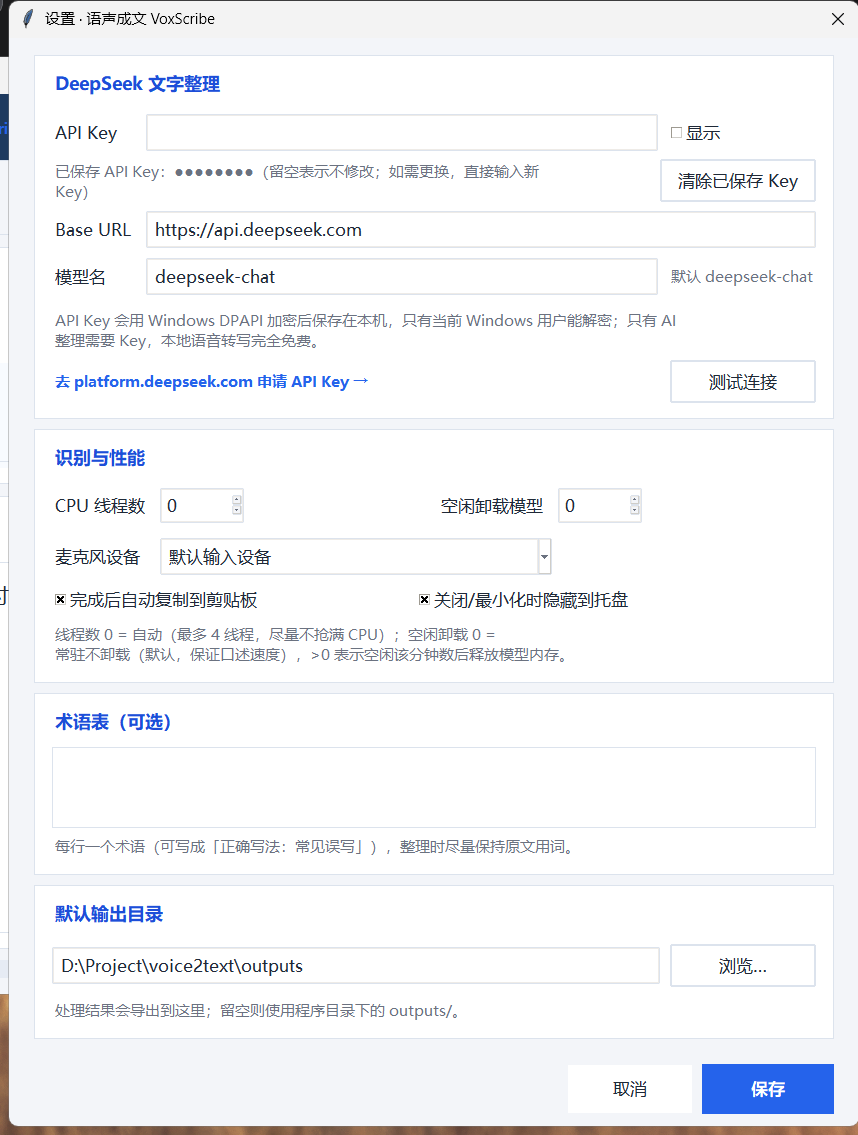
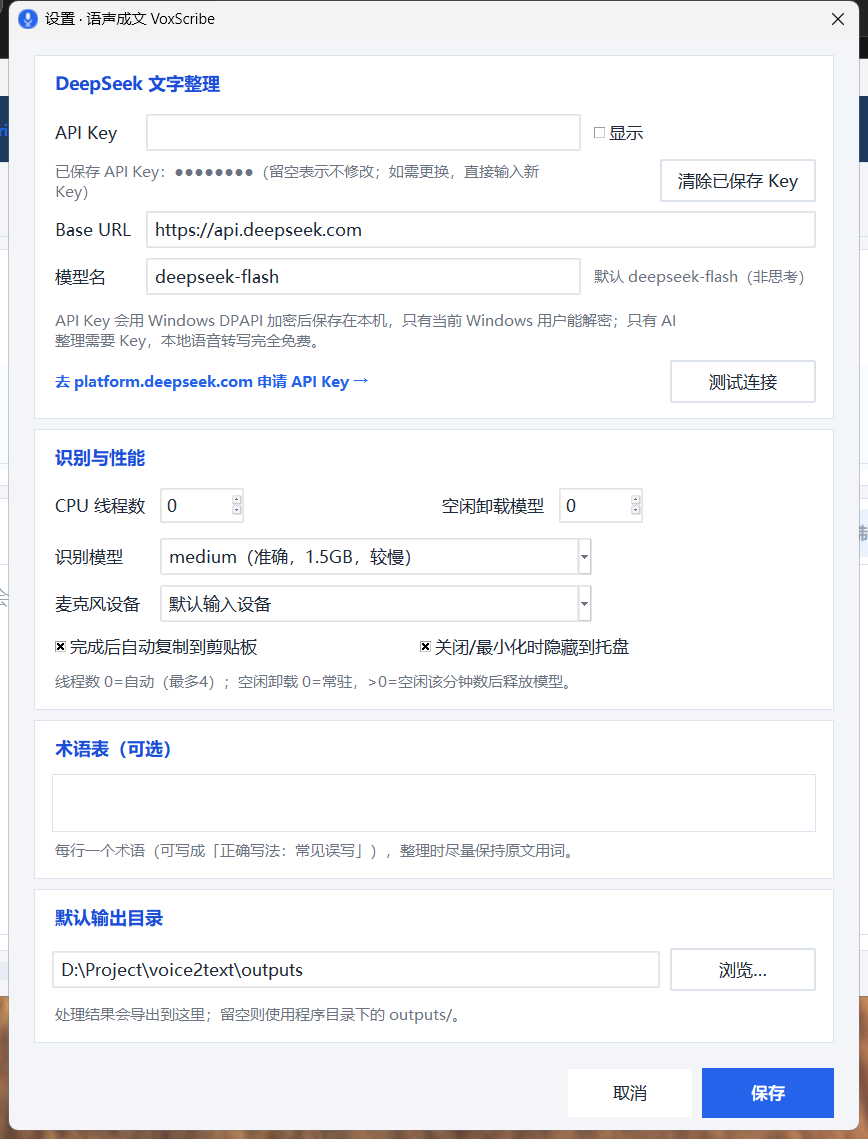
feat(v1.4.0): 桌面启动 CUDA 修复 + 共享识别模型 + DeepSeek V4.1 Flash 非思考模式
- 修复桌面快捷方式启动时 cublas64_12.dll 找不到：asr 的 site-packages 发现逻辑补充 VIRTUAL_ENV / PYTHONPATH / sys.path / 用户 site-packages，启动器注入的 venv 依赖也能找到 NVIDIA CUDA 库
- 验证：从桌面快捷方式启动后 medium 模型正常加载到 GPU，无 CUDA 报错、无黑框
- 设置新增「识别模型」下拉：语音输入与文件转写共用同一个 ASR 模型设置，文件页下拉自动同步
- DeepSeek 整理默认改为 deepseek-flash（DeepSeek-V4.1-Flash）并关闭思考模式（thinking type=disabled），实测整理 0.72s、completion 18 tokens，不再走 chat/reasoner
- 兼容旧模型：仅对 flash/v4 发送 thinking 参数，避免旧模型 400
- 更新设置截图与 README（模型说明、共享设置、FAQ）
- 183 常规测试 / 191 全量测试通过

diff --git a/voxscribe/gui/dialogs.py b/voxscribe/gui/dialogs.py
@@ -11,7 +11,7 @@ from tkinter import filedialog, messagebox, ttk
 import tkinter as tk
 from typing import Callable, Optional, Tuple
 
-from ..config import AppSettings, default_output_dir
+from ..config import ASR_MODELS, AppSettings, default_output_dir
 from ..errors import VoxError
 from ..pipeline import Pipeline
 from .hotkey import HOTKEY_LABEL
@@ -208,7 +208,7 @@ class SettingsDialog(tk.Toplevel):
         ttk.Entry(deepseek_body, textvariable=self.api_model_var).grid(
             row=3, column=1, sticky="ew", pady=theme.px(4)
         )
-        _card_label(deepseek_body, theme, "默认 deepseek-chat", muted=True).grid(
+        _card_label(deepseek_body, theme, "默认 deepseek-flash（非思考）", muted=True).grid(
             row=3, column=2, sticky="w", padx=(theme.px(8), 0)
         )
 
@@ -262,8 +262,25 @@ class SettingsDialog(tk.Toplevel):
         ).grid(row=0, column=3, sticky="w", pady=theme.px(4))
 
         perf_hint = (
-            "线程数 0 = 自动（最多 4 线程，尽量不抢满 CPU）；"
-            "空闲卸载 0 = 常驻不卸载（默认，保证口述速度），>0 表示空闲该分钟数后释放模型内存。"
+            "线程数 0=自动（最多4）；空闲卸载 0=常驻，>0=空闲该分钟数后释放模型。"
+        )
+
+        # 识别模型（语音输入与文件转写共用这一个设置）
+        self._model_keys = list(ASR_MODELS)
+        self._model_values = [ASR_MODELS[key] for key in self._model_keys]
+        self.model_var = tk.StringVar()
+        _card_label(perf_body, theme, "识别模型").grid(
+            row=1, column=0, sticky="w", padx=(0, theme.px(10)), pady=(theme.px(8), 0)
+        )
+        self.model_combo = ttk.Combobox(
+            perf_body,
+            textvariable=self.model_var,
+            values=self._model_values,
+            state="readonly",
+            width=40,
+        )
+        self.model_combo.grid(
+            row=1, column=1, columnspan=3, sticky="w", pady=(theme.px(8), 0)
         )
 
         # 麦克风设备选择（默认 = 系统默认输入设备）
@@ -285,17 +302,17 @@ class SettingsDialog(tk.Toplevel):
         except Exception:  # pragma: no cover - 无录音环境
             log.debug("枚举麦克风设备失败", exc_info=True)
         _card_label(perf_body, theme, "麦克风设备").grid(
-            row=1, column=0, sticky="w", padx=(0, theme.px(10)), pady=(theme.px(8), 0)
+            row=2, column=0, sticky="w", padx=(0, theme.px(10)), pady=(theme.px(8), 0)
         )
         self.mic_combo = ttk.Combobox(
             perf_body,
             textvariable=self.mic_var,
             values=mic_values,
             state="readonly",
-            width=36,
+            width=40,
         )
         self.mic_combo.grid(
-            row=1, column=1, columnspan=3, sticky="w", pady=(theme.px(8), 0)
+            row=2, column=1, columnspan=3, sticky="w", pady=(theme.px(8), 0)
         )
 
         # 语音输入行为（收纳进「识别与性能」卡片，减少界面区块）
@@ -307,7 +324,7 @@ class SettingsDialog(tk.Toplevel):
             text="完成后自动复制到剪贴板",
             variable=self.auto_copy_var,
             style="Card.TCheckbutton",
-        ).grid(row=2, column=0, columnspan=2, sticky="w", pady=(theme.px(8), 0))
+        ).grid(row=3, column=0, columnspan=2, sticky="w", pady=(theme.px(8), 0))
         self.close_to_tray_var = tk.BooleanVar(
             value=bool(getattr(self.settings, "close_to_tray", True))
         )
@@ -316,17 +333,17 @@ class SettingsDialog(tk.Toplevel):
             text="关闭/最小化时隐藏到托盘",
             variable=self.close_to_tray_var,
             style="Card.TCheckbutton",
-        ).grid(row=2, column=2, columnspan=2, sticky="w", pady=(theme.px(8), 0))
+        ).grid(row=3, column=2, columnspan=2, sticky="w", pady=(theme.px(8), 0))
         _card_label(
-            perf_body, theme, perf_hint, muted=True, wraplength=theme.px(500)
-        ).grid(row=3, column=0, columnspan=4, sticky="w", pady=(theme.px(6), 0))
+            perf_body, theme, perf_hint, muted=True, wraplength=theme.px(520)
+        ).grid(row=4, column=0, columnspan=4, sticky="w", pady=(theme.px(6), 0))
 
         # --- 术语表 ---
         glossary_card, glossary_body = make_card(outer, theme, "术语表（可选）")
         glossary_card.pack(fill="x", pady=(0, theme.px(8)))
         self.glossary_text = tk.Text(
             glossary_body,
-            height=3,
+            height=2,
             wrap="word",
             font=theme.font(UI_SIZE),
             bg=COLORS["input_bg"],
@@ -401,7 +418,10 @@ class SettingsDialog(tk.Toplevel):
         self.api_key_var.set("")
         self._update_key_state()
         self.base_url_var.set(settings.api_base_url or "https://api.deepseek.com")
-        self.api_model_var.set(settings.api_model or "deepseek-chat")
+        self.api_model_var.set(settings.api_model or "deepseek-flash")
+        self.model_var.set(
+            ASR_MODELS.get(settings.asr_model, ASR_MODELS.get("medium", ""))
+        )
         self.threads_var.set(str(int(settings.cpu_threads or 0)))
         self.idle_var.set(str(int(settings.idle_unload_minutes or 0)))
         self.output_var.set(
@@ -493,7 +513,7 @@ class SettingsDialog(tk.Toplevel):
             )
             return
         base_url = self.base_url_var.get().strip() or "https://api.deepseek.com"
-        model = self.api_model_var.get().strip() or "deepseek-chat"
+        model = self.api_model_var.get().strip() or "deepseek-flash"
         self._test_running = True
         self.test_button.configure(state="disabled", text="测试中…")
         threading.Thread(
@@ -583,7 +603,7 @@ class SettingsDialog(tk.Toplevel):
                 parent=self,
             )
             return
-        model = self.api_model_var.get().strip() or "deepseek-chat"
+        model = self.api_model_var.get().strip() or "deepseek-flash"
 
         raw_output = self.output_var.get().strip()
         output_path: Optional[Path] = None
@@ -615,6 +635,12 @@ class SettingsDialog(tk.Toplevel):
         self.settings.close_to_tray = bool(self.close_to_tray_var.get())
         self.settings.auto_copy = bool(self.auto_copy_var.get())
         self.settings.glossary = self.glossary_text.get("1.0", "end-1c").strip()
+        # 识别模型：语音输入与文件转写共用这一个设置
+        model_choice = self.model_var.get().strip()
+        for key, label in ASR_MODELS.items():
+            if label == model_choice:
+                self.settings.asr_model = key
+                break
         mic_choice = self.mic_var.get().strip()
         self.settings.input_device = (
             "" if mic_choice in ("", "默认输入设备") else mic_choice

diff --git a/voxscribe/refine.py b/voxscribe/refine.py
@@ -4,7 +4,7 @@
 
     refiner = DeepSeekRefiner(api_key="sk-...",
                               base_url="https://api.deepseek.com",
-                              model="deepseek-chat",
+                              model="deepseek-flash",
                               timeout=120, max_retries=2)
     refiner.refine(transcript, RefineOptions(...),
                    on_progress=callable(ratio, message),
@@ -161,7 +161,7 @@ def _extract_content(data: Any) -> str:
         raise RefineError(
             "DeepSeek 返回结果缺少内容（choices 为空）",
             hint="请稍后重试；若持续出现，请检查「设置」中的模型名称是否正确"
-            "（一般填 deepseek-chat）。",
+            "（一般填 deepseek-flash）。",
         )
     first = choices[0]
     message = first.get("message") if isinstance(first, dict) else None
@@ -263,14 +263,17 @@ class DeepSeekRefiner:
         *,
         api_key: str,
         base_url: str = DEFAULT_BASE_URL,
-        model: str = "deepseek-chat",
+        model: str = "deepseek-flash",
         timeout: float = 120.0,
         max_retries: int = 2,
+        thinking_disabled: bool = True,
     ) -> None:
         self._api_key = (api_key or "").strip()
         self.base_url = normalize_base_url(base_url)
         self.chat_url = self.base_url + CHAT_COMPLETIONS_PATH
-        self.model = (model or "deepseek-chat").strip() or "deepseek-chat"
+        self.model = (model or "deepseek-flash").strip() or "deepseek-flash"
+        # True = 请求体带 thinking: {"type": "disabled"}，关闭思考模式（低延迟）
+        self.thinking_disabled = bool(thinking_disabled)
 
         timeout_value = _safe_float(timeout, 120.0)
         if timeout_value <= 0:
@@ -449,6 +452,12 @@ class DeepSeekRefiner:
             "max_tokens": int(max_tokens),
             "stream": False,
         }
+        if self.thinking_disabled:
+            # 仅对支持「思考开关」的新模型发送该参数；旧模型（如 deepseek-chat）
+            # 收到 thinking 字段可能直接 400，因此按模型名判断。
+            model_lower = self.model.lower()
+            if "flash" in model_lower or "v4" in model_lower:
+                payload["thinking"] = {"type": "disabled"}
         max_attempts = self.max_retries + 1
         attempt = 0
 

diff --git a/voxscribe/asr.py b/voxscribe/asr.py
@@ -262,6 +262,10 @@ def _default_site_package_roots() -> List[Path]:
         import site as site_module  # 标准库
 
         candidates.extend(site_module.getsitepackages())
+        try:
+            candidates.append(site_module.getusersitepackages())
+        except Exception:  # pragma: no cover - 极端环境
+            pass
     except Exception:  # pragma: no cover - 极少数嵌入式环境
         log.debug("无法通过 site.getsitepackages() 定位依赖目录", exc_info=True)
     version = f"python{sys.version_info.major}.{sys.version_info.minor}"
@@ -271,6 +275,23 @@ def _default_site_package_roots() -> List[Path]:
             str(Path(sys.prefix) / "lib" / version / "site-packages"),  # Linux/macOS
         ]
     )
+    # 桌面快捷方式用基础 pythonw 启动（sys.prefix 指向基础解释器）时，
+    # 依赖目录由 VIRTUAL_ENV / PYTHONPATH 注入，这里显式补上。
+    venv_dir = os.environ.get("VIRTUAL_ENV", "").strip()
+    if venv_dir:
+        candidates.extend(
+            [
+                str(Path(venv_dir) / "Lib" / "site-packages"),
+                str(Path(venv_dir) / "lib" / version / "site-packages"),
+            ]
+        )
+    for entry in sys.path:
+        try:
+            path = Path(entry)
+            if path.name.lower() == "site-packages":
+                candidates.append(str(path))
+        except (OSError, TypeError):
+            continue
     roots: List[Path] = []
     seen: set[str] = set()
     for candidate in candidates:

diff --git a/tests/test_gui_home.py b/tests/test_gui_home.py
@@ -412,6 +412,30 @@ def test_home_minimal_layout_and_half_wave(gui_env):
         _close_window(window)
 
 
+def test_settings_model_shared_with_file_page(gui_env):
+    """设置里的「识别模型」是语音输入/文件转写共用的唯一设置。"""
+    root, window = _make_window(gui_env)
+    try:
+        from voxscribe.config import ASR_MODELS
+        from voxscribe.gui.dialogs import SettingsDialog
+
+        dialog = SettingsDialog(
+            root,
+            settings=window.settings,
+            pipeline=window.pipeline,
+            theme=window.theme,
+        )
+        dialog.model_var.set(ASR_MODELS["base"])
+        dialog._on_save()
+        root.update()
+        assert window.settings.asr_model == "base"
+        # 文件转写页的模型下拉在设置保存后同步为同一个值
+        window._apply_settings_to_ui()
+        assert window._current_model_key() == "base"
+    finally:
+        _close_window(window)
+
+
 def test_no_api_key_degrades_to_local_transcribe(gui_env, monkeypatch):
     root, window = _make_window(gui_env, api_key=None)
     captured = _patch_pipeline(window, monkeypatch, refined=False)

diff --git a/tests/test_gui_integration.py b/tests/test_gui_integration.py
@@ -155,7 +155,7 @@ def test_file_page_batch_flow(tmp_path: Path, monkeypatch: pytest.MonkeyPatch) -
             language="zh",
             model_dir=str(ROOT / "data" / "models"),
             api_base_url=server.url,
-            api_model="deepseek-chat",
+            api_model="deepseek-flash",
             export_formats=["txt", "md", "docx", "srt"],
             output_dir=str(tmp_path / "out"),
             refine_by_default=True,
@@ -240,7 +240,7 @@ def test_home_page_quick_dictation_flow(
             language="zh",
             model_dir=str(ROOT / "data" / "models"),
             api_base_url=server.url,
-            api_model="deepseek-chat",
+            api_model="deepseek-flash",
             auto_copy=True,
             first_run_done=True,
             idle_unload_minutes=0,

diff --git a/tests/test_refine.py b/tests/test_refine.py
@@ -58,7 +58,7 @@ def make_refiner(server: MockAPIServer, **overrides) -> DeepSeekRefiner:
     kwargs = dict(
         api_key=TEST_KEY,
         base_url=server.url,
-        model="deepseek-chat",
+        model="deepseek-flash",
         timeout=10.0,
         max_retries=2,
     )
@@ -173,7 +173,8 @@ def test_single_chunk_success(server, refiner, sample_transcript):
     assert request.headers.get("authorization", "").startswith("Bearer ")
 
     payload = request.json
-    assert payload["model"] == "deepseek-chat"
+    assert payload["model"] == "deepseek-flash"
+    assert payload["thinking"] == {"type": "disabled"}
     assert payload["stream"] is False
     assert payload["max_tokens"] == MAX_OUTPUT_TOKENS
     assert payload["max_tokens"] == 4096

diff --git a/voxscribe/config.py b/voxscribe/config.py
@@ -87,9 +87,10 @@ class AppSettings:
     input_device: str = ""  # 麦克风设备名；空 = 系统默认输入设备
     idle_unload_minutes: int = 0  # 0 = 常驻不卸载（保证口述响应速度）
 
-    # --- DeepSeek 文本整理（deepseek-chat，非思考模式，低延迟）---
+    # --- DeepSeek 文本整理（deepseek-flash，关闭思考模式，低延迟）---
     api_base_url: str = "https://api.deepseek.com"
-    api_model: str = "deepseek-chat"
+    api_model: str = "deepseek-flash"
+    api_thinking_disabled: bool = True  # True = 关闭思考模式（最快、直接输出正文）
     api_timeout: int = 120
     api_max_retries: int = 2
     api_key_enc: str = ""  # DPAPI 密文；兼容 plain: 明文

diff --git a/voxscribe/__init__.py b/voxscribe/__init__.py
@@ -3,13 +3,13 @@
 工作流：
     麦克风 / 音频文件
         -> 本地 faster-whisper（优先 NVIDIA GPU / CUDA float16）语音转写
-        -> DeepSeek API（deepseek-chat，非思考模式）口语整理与润色
+        -> DeepSeek API（deepseek-flash，非思考模式）口语整理与润色
         -> 直接复制 / 导出 txt、md、docx、srt
 
 设计目标：快、轻量、界面克制、隐私友好；托盘常驻，Alt+~ 一键口述。
 """
 
-__version__ = "1.3.3"
+__version__ = "1.4.0"
 APP_NAME = "VoxScribe"
 APP_DISPLAY_NAME = "语声成文"
 

diff --git a/tests/test_config.py b/tests/test_config.py
@@ -14,7 +14,8 @@ from voxscribe.config import AppSettings
 def test_defaults() -> None:
     settings = AppSettings()
     assert settings.asr_model == "medium"
-    assert settings.api_model == "deepseek-chat"
+    assert settings.api_model == "deepseek-flash"
+    assert settings.api_thinking_disabled is True  # 默认关闭思考模式（低延迟）
     assert settings.api_base_url.startswith("https://")
     assert settings.language == "auto"  # 默认自动检测，中英混说不会被强制翻译
     assert 1 <= settings.effective_threads() <= 4

diff --git a/tools/test_deepseek.py b/tools/test_deepseek.py
@@ -40,7 +40,7 @@ from voxscribe.models import STYLES, RefineOptions, Segment, Transcript  # noqa:
 from voxscribe.refine import DeepSeekRefiner  # noqa: E402
 
 DEFAULT_BASE_URL = "https://api.deepseek.com"
-DEFAULT_MODEL = "deepseek-chat"
+DEFAULT_MODEL = "deepseek-flash"
 KEY_ENV_NAMES = ("VOXSCRIBE_API_KEY", "DEEPSEEK_API_KEY")
 
 

diff --git a/tests/mock_api.py b/tests/mock_api.py
@@ -48,7 +48,7 @@ def chat_response(
     content: str,
     *,
     usage: Optional[Dict[str, int]] = None,
-    model: str = "deepseek-chat",
+    model: str = "deepseek-flash",
     finish_reason: str = "stop",
 ) -> Dict[str, Any]:
     """构造一份 OpenAI 兼容的 chat.completion 响应体。"""

diff --git a/voxscribe/pipeline.py b/voxscribe/pipeline.py
@@ -50,6 +50,7 @@ def _default_refiner_factory(settings: AppSettings, api_key: str) -> DeepSeekRef
         model=settings.api_model,
         timeout=settings.api_timeout,
         max_retries=settings.api_max_retries,
+        thinking_disabled=settings.api_thinking_disabled,
     )
 
 
